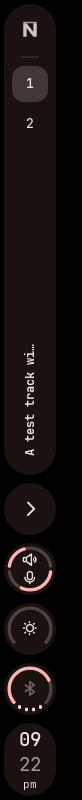
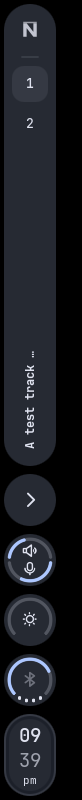
fix(bar): frame the detached clock like floating popups

diff --git a/modules/bar/clock/Clock.qml b/modules/bar/clock/Clock.qml
@@ -37,6 +37,9 @@ Item {
     readonly property Item dashboardHitbox: dashboardPopup.hitbox
     readonly property bool timeToolsOpen: timePopup.isOpen
     readonly property bool anyPopupOpen: popupOpen || menuOpen || timeToolsOpen
+    readonly property color clockItemColor: root.detached
+        ? Styling.srItem(root.anyPopupOpen ? "focus" : "pane")
+        : (root.anyPopupOpen ? buttonBg.item : Colors.overBackground)
 
     function formatDuration(seconds) {
         const safeSeconds = Math.max(0, seconds);
@@ -149,11 +152,14 @@ Item {
     }
 
     // Main button
-    StyledRect {
+    FloatingSurface {
         id: buttonBg
-        variant: root.vertical ? (root.anyPopupOpen ? "focus" : (root.detached ? "pane" : "common")) : (root.anyPopupOpen ? "primary" : "bg")
+        variant: root.detached ? "popup" : (root.vertical ? (root.anyPopupOpen ? "focus" : "common") : (root.anyPopupOpen ? "primary" : "bg"))
+        contentVariant: root.detached ? (root.anyPopupOpen ? "focus" : "pane") : ""
+        contentInset: root.detached ? Math.round(root.verticalWidth / 10) : 0
+        radius: root.detached ? root.verticalWidth / 2 : root.radius
         backgroundOpacity: root.vertical && !root.detached && !root.anyPopupOpen ? 0 : -1
-        enableBorder: !root.vertical
+        enableBorder: root.detached || !root.vertical
         scale: verticalClockMouse.pressed ? 0.94 : 1.0
 
         PressBehavior on scale {
@@ -168,7 +174,7 @@ Item {
         bottomRightRadius: root.endRadius
 
         implicitWidth: root.vertical ? root.verticalWidth : rowLayout.implicitWidth + 24
-        implicitHeight: root.vertical ? Math.max(verticalContent.implicitHeight + 8, root.detached ? root.verticalWidth * 1.4 : 0) : 36
+        implicitHeight: root.vertical ? Math.max(verticalContent.implicitHeight + contentInset * 2 + 8, root.detached ? root.verticalWidth * 1.4 : 0) : 36
 
         HoverTint {
             hovered: root.isHovered && !root.anyPopupOpen
@@ -195,7 +201,7 @@ Item {
                     text: root.weatherAvailable
                         ? WeatherService.weatherSymbol + " " + Math.round(WeatherService.currentTemp) + "°"
                         : root.currentDayAbbrev
-                    color: root.anyPopupOpen ? buttonBg.item : Colors.overBackground
+                    color: root.clockItemColor
                     font.pixelSize: Config.theme.fontSize
                     font.family: Config.theme.font
                     font.bold: true
@@ -228,7 +234,7 @@ Item {
                     id: dateDisplay
                     anchors.centerIn: parent
                     text: root.currentFullDate
-                    color: root.anyPopupOpen ? buttonBg.item : Colors.overBackground
+                    color: root.clockItemColor
                     font.pixelSize: Config.theme.fontSize
                     font.family: Config.theme.font
                     font.weight: Font.Medium
@@ -262,7 +268,7 @@ Item {
                     id: timeDisplay
                     anchors.centerIn: parent
                     text: root.timeText
-                    color: root.anyPopupOpen ? buttonBg.item : Colors.overBackground
+                    color: root.clockItemColor
                     font.pixelSize: Config.theme.fontSize
                     font.family: Config.theme.font
                     font.bold: true
@@ -292,7 +298,7 @@ Item {
             StyledText {
                 Layout.alignment: Qt.AlignHCenter
                 text: root.timeText.split(":")[0].padStart(2, "0")
-                color: root.anyPopupOpen ? buttonBg.item : Colors.overBackground
+                color: root.clockItemColor
                 font.family: Config.theme.monoFont
                 font.pixelSize: Styling.fontSize(root.detached ? 6 : 2)
                 font.weight: Font.DemiBold
@@ -301,7 +307,7 @@ Item {
             StyledText {
                 Layout.alignment: Qt.AlignHCenter
                 text: (root.timeText.split(":")[1] ?? "00").split(" ")[0]
-                color: root.anyPopupOpen ? buttonBg.item : Colors.overBackground
+                color: root.clockItemColor
                 font.family: Config.theme.monoFont
                 font.pixelSize: Styling.fontSize(root.detached ? 6 : 2)
                 opacity: 0.65
@@ -312,7 +318,7 @@ Item {
                 visible: Config.bar.use12hFormat && root.timeText === root.currentTime
                 text: root.currentTime.split(" ")[1] ?? ""
                 font.pixelSize: Styling.fontSize(root.detached ? -2 : -4)
-                color: root.anyPopupOpen ? buttonBg.item : Colors.overBackground
+                color: root.clockItemColor
             }
         }
 
